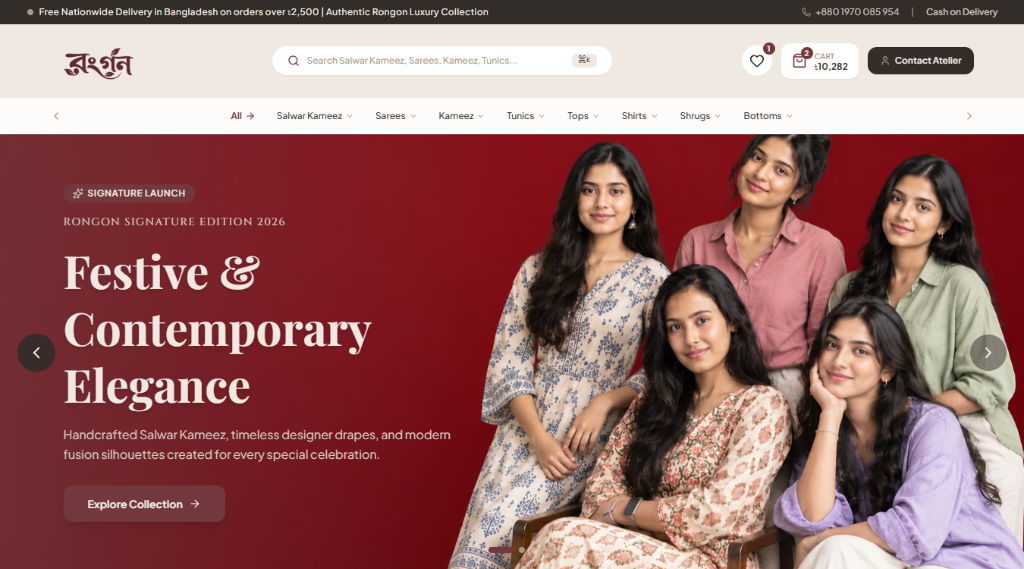
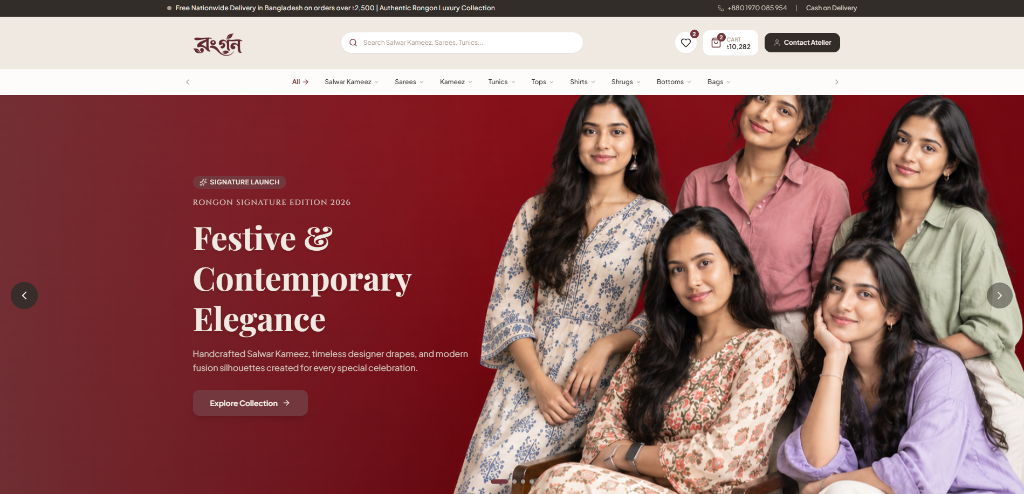
update: readme

diff --git a/README.md b/README.md
@@ -7,10 +7,50 @@
 [![TailwindCSS](https://img.shields.io/badge/TailwindCSS-v4-38B2AC?style=for-the-badge&logo=tailwind-css&logoColor=white)](https://tailwindcss.com/)
 [![Node.js](https://img.shields.io/badge/Node.js-Express-339933?style=for-the-badge&logo=node.js&logoColor=white)](https://nodejs.org/)
 [![MongoDB Atlas](https://img.shields.io/badge/MongoDB-Atlas%20Cloud-47A248?style=for-the-badge&logo=mongodb&logoColor=white)](https://www.mongodb.com/)
+[![Live Demo](https://img.shields.io/badge/Live%20Demo-ron--gon.vercel.app-000000?style=for-the-badge&logo=vercel&logoColor=white)](https://ron-gon.vercel.app)
 [![License](https://img.shields.io/badge/License-Proprietary-72383D?style=for-the-badge)]()
 
 **An ultra-premium, high-performance e-commerce storefront for Rongon (রংগন)**  
 *Exclusive Salwar Kameez, Heritage Sarees, Single Kameez, Tunics & Contemporary Ethnic Drapes*
+
+🔗 **Live Deployment:** [ron-gon.vercel.app](https://ron-gon.vercel.app)
+
+</div>
+
+---
+
+## 📸 Visual Showcase & Interface Preview
+
+<div align="center">
+
+### 🖥 Desktop Experience
+
+#### 1. Signature Hero Campaign & Atelier Editorial Launch
+![Rongon Signature Edition Launch](screenshots/desktop-hero.png)
+
+<br/>
+
+#### 2. Luxury Boutique Catalogue & Multi-Category Grid
+![Rongon Catalogue Showcase](screenshots/desktop-catalog.png)
+
+<br/>
+
+---
+
+### 📱 Responsive Mobile App Experience
+
+<table>
+  <tr>
+    <td align="center" width="50%">
+      <strong>Mobile Hero & Category Curations</strong><br/><br/>
+      <img src="screenshots/mobile-hero.png" alt="Mobile Hero & Curations" width="340" />
+    </td>
+    <td align="center" width="50%">
+      <strong>Mobile Heritage Saree Catalogue</strong><br/><br/>
+      <img src="screenshots/mobile-catalog.png" alt="Mobile Catalog Grid" width="340" />
+    </td>
+  </tr>
+</table>
 
 </div>
 
@@ -170,6 +210,7 @@ leeswhim/
 │   ├── App.jsx                   # Route configurations and layout wrapper
 │   ├── index.css                 # Custom font imports & Tailwind rules
 │   └── main.jsx                  # Application entry point
+├── screenshots/                  # High-resolution desktop & mobile mockups
 ├── package.json                  # Root dependencies & concurrent dev script
 └── vite.config.js                # Vite build & proxy configuration
 ```
